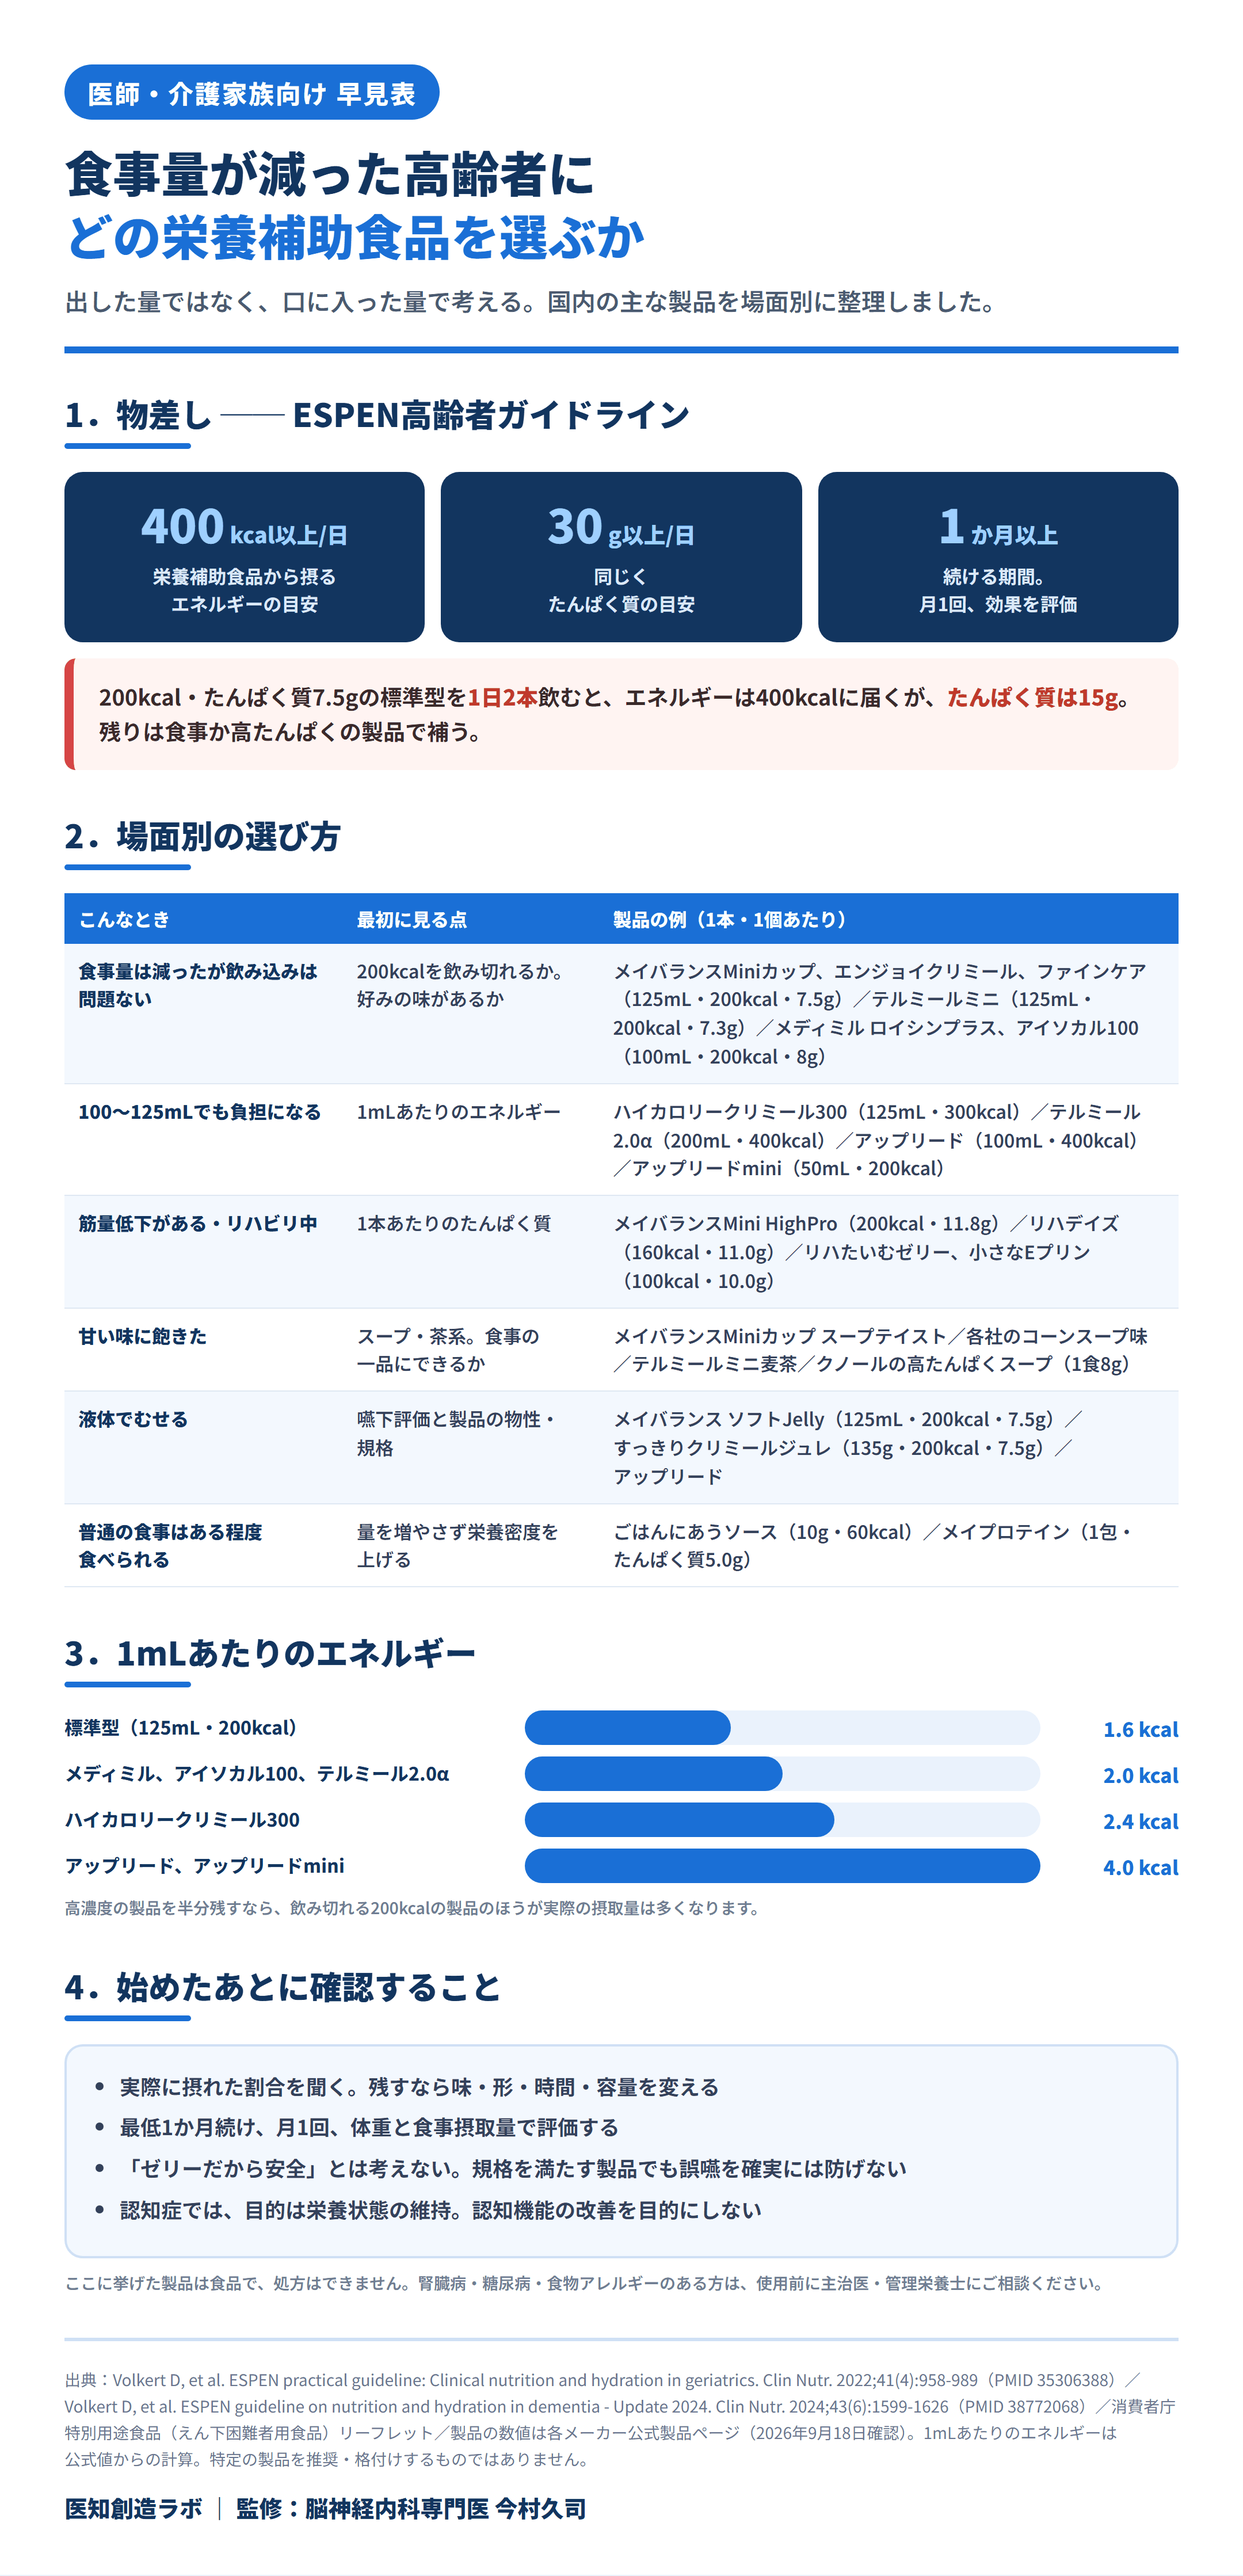
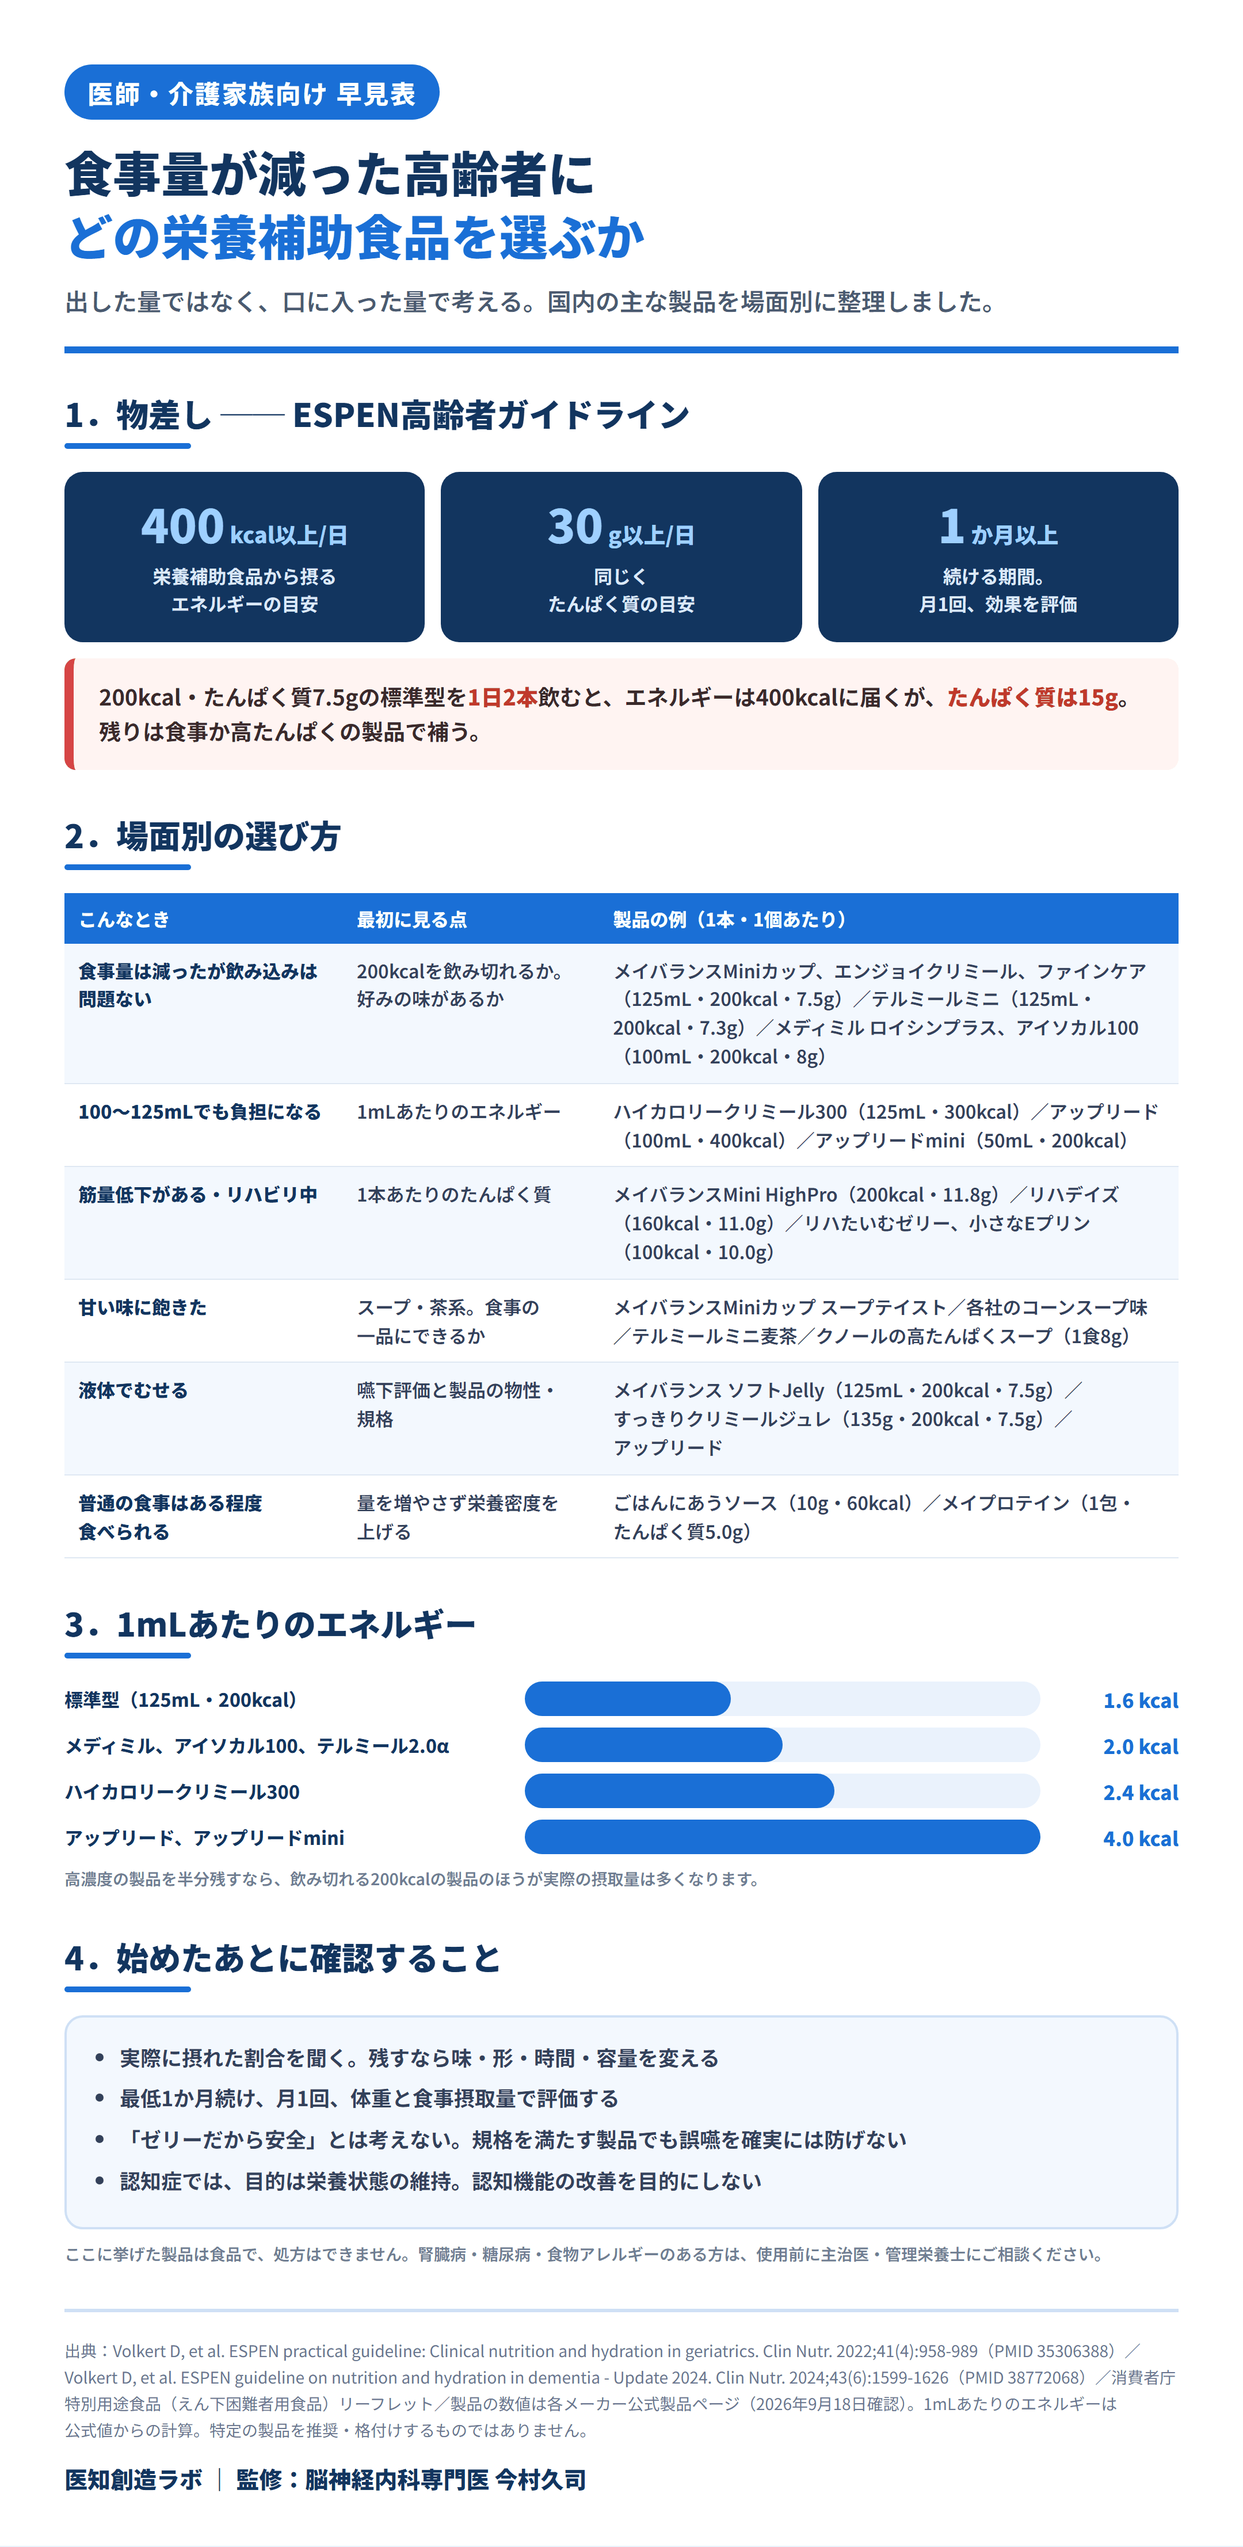
fix(infographics): 栄養補助食品の早見表でテルミール2.0α（200mL）を「100〜125mLでも負担」の行から除外

Changed region(s): [[0.031, 0.0312, 0.9616, 0.9977], [0.8995, 0.6548, 0.9616, 0.7483], [0.8685, 0.5924, 0.8995, 0.6236]]

diff --git a/infographics/ons-product-comparison/index.html b/infographics/ons-product-comparison/index.html
@@ -79,7 +79,7 @@
     <table class="cmp">
       <tr><th style="width:25%">こんなとき</th><th style="width:23%">最初に見る点</th><th>製品の例（1本・1個あたり）</th></tr>
       <tr><td class="typ">食事量は減ったが飲み込みは問題ない</td><td>200kcalを飲み切れるか。好みの味があるか</td><td>メイバランスMiniカップ、エンジョイクリミール、ファインケア（125mL・200kcal・7.5g）／テルミールミニ（125mL・200kcal・7.3g）／メディミル ロイシンプラス、アイソカル100（100mL・200kcal・8g）</td></tr>
-      <tr><td class="typ">100〜125mLでも負担になる</td><td>1mLあたりのエネルギー</td><td>ハイカロリークリミール300（125mL・300kcal）／テルミール2.0α（200mL・400kcal）／アップリード（100mL・400kcal）／アップリードmini（50mL・200kcal）</td></tr>
+      <tr><td class="typ">100〜125mLでも負担になる</td><td>1mLあたりのエネルギー</td><td>ハイカロリークリミール300（125mL・300kcal）／アップリード（100mL・400kcal）／アップリードmini（50mL・200kcal）</td></tr>
       <tr><td class="typ">筋量低下がある・リハビリ中</td><td>1本あたりのたんぱく質</td><td>メイバランスMini HighPro（200kcal・11.8g）／リハデイズ（160kcal・11.0g）／リハたいむゼリー、小さなEプリン（100kcal・10.0g）</td></tr>
       <tr><td class="typ">甘い味に飽きた</td><td>スープ・茶系。食事の一品にできるか</td><td>メイバランスMiniカップ スープテイスト／各社のコーンスープ味／テルミールミニ麦茶／クノールの高たんぱくスープ（1食8g）</td></tr>
       <tr><td class="typ">液体でむせる</td><td>嚥下評価と製品の物性・規格</td><td>メイバランス ソフトJelly（125mL・200kcal・7.5g）／すっきりクリミールジュレ（135g・200kcal・7.5g）／アップリード</td></tr>
